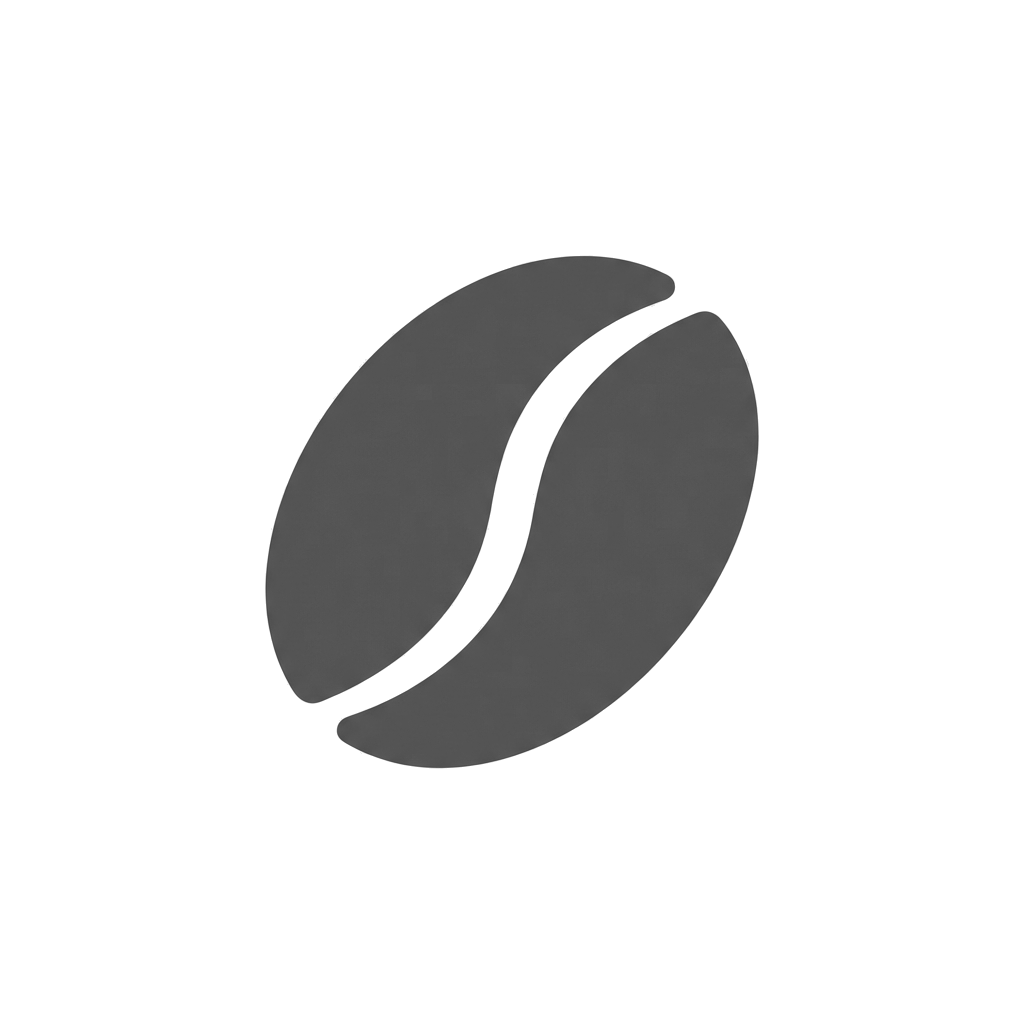
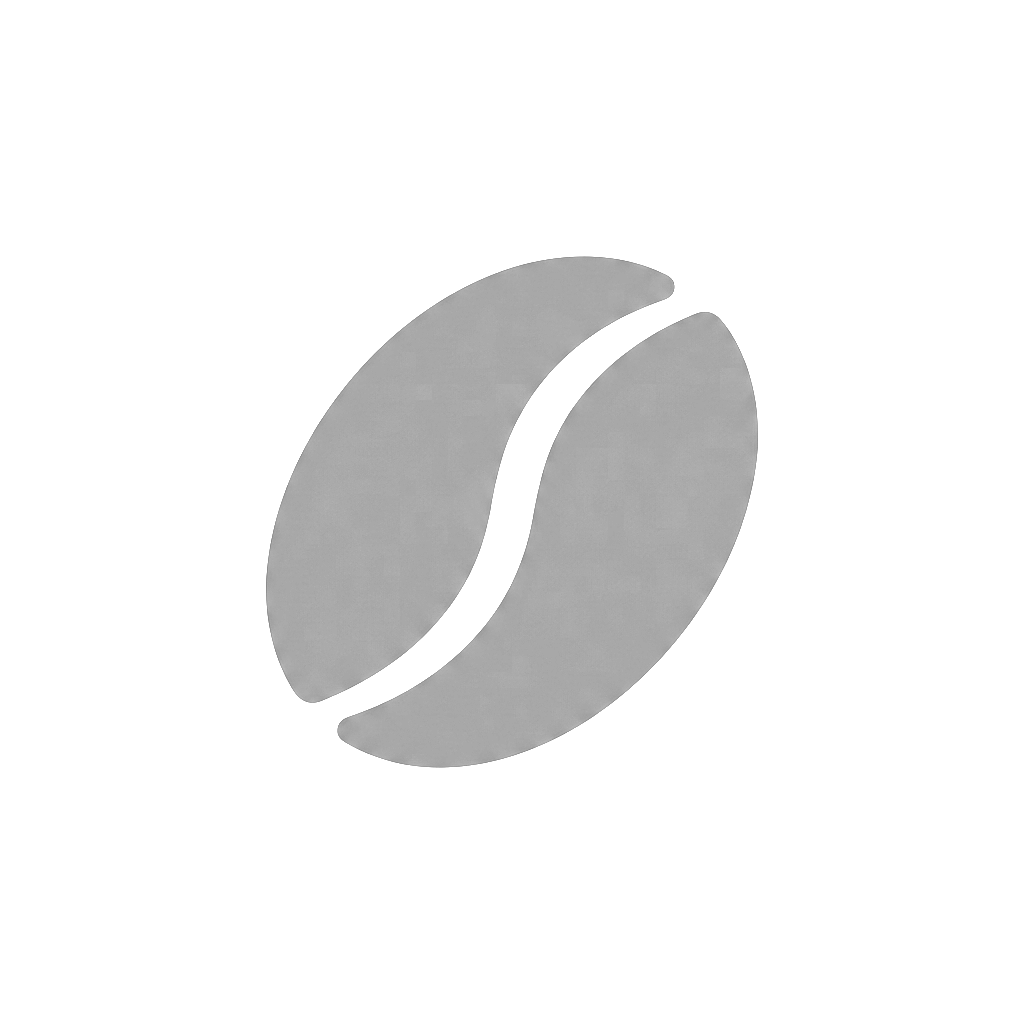
fix: 4 issues from AnAn feedback
1. Lighter gray coffee bean (2x brightness)
2. Filter chips horizontal scroll (no overflow)
3. Rating synced via FavoritesContext (history ↔ favorites)
4. Cafe card in favorites has bean rating next to Google stars
- Removed unused rerollFavorite code
- CafeCard uses context rating instead of local state

Changed region(s): [[0.25, 0.25, 0.75, 0.75]]

diff --git a/app/(tabs)/favorites.tsx b/app/(tabs)/favorites.tsx
@@ -1,6 +1,6 @@
 import React, { useState, useRef, useEffect } from 'react';
 import {
-  View, Text, Image, StyleSheet, TouchableOpacity, Platform, Linking, Animated,
+  View, Text, Image, StyleSheet, TouchableOpacity, Platform, Linking, Animated, ScrollView,
 } from 'react-native';
 import { SafeAreaView } from 'react-native-safe-area-context';
 import { useRouter } from 'expo-router';
@@ -19,7 +19,7 @@ export default function FavoritesScreen() {
   const router = useRouter();
   const { user } = useAuth();
   const { t } = useI18n();
-  const { favorites, removeFavorite, favCount } = useFavorites();
+  const { favorites, removeFavorite, favCount, setRating, getRating } = useFavorites();
   const location = useLocation();
   const isLoggedIn = !!user;
   const isSubscribed = getSubscriptionStatus();
@@ -112,7 +112,7 @@ export default function FavoritesScreen() {
       </View>
 
       {/* Bean rating filter */}
-      <View style={styles.filterRow}>
+      <ScrollView horizontal showsHorizontalScrollIndicator={false} style={styles.filterScroll} contentContainerStyle={styles.filterRow}>
         {FILTER_OPTIONS.map((opt) => (
           <TouchableOpacity
             key={String(opt.value)}
@@ -136,7 +136,7 @@ export default function FavoritesScreen() {
             )}
           </TouchableOpacity>
         ))}
-      </View>
+      </ScrollView>
 
       {/* Forest Map */}
       <View style={styles.mapContainer}>
@@ -229,11 +229,23 @@ export default function FavoritesScreen() {
               )}
               <View style={styles.cafeInfo}>
                 <Text style={styles.cafeName} numberOfLines={1}>{selectedCafe.name}</Text>
-                <View style={styles.cafeRating}>
-                  <Ionicons name="star" size={12} color={Colors.star} />
-                  <Text style={styles.cafeRatingText}>
-                    {selectedCafe.rating > 0 ? selectedCafe.rating.toFixed(1) : '-'}
-                  </Text>
+                <View style={styles.cafeRatingRow}>
+                  <View style={styles.cafeRating}>
+                    <Ionicons name="star" size={12} color={Colors.star} />
+                    <Text style={styles.cafeRatingText}>
+                      {selectedCafe.rating > 0 ? selectedCafe.rating.toFixed(1) : '-'}
+                    </Text>
+                  </View>
+                  <View style={styles.cafeBeanRating}>
+                    {[1, 2, 3, 4].map((level) => (
+                      <TouchableOpacity key={level} onPress={() => setRating(selectedCafe.place_id, getRating(selectedCafe.place_id) === level ? 0 : level)}>
+                        <Image
+                          source={getRating(selectedCafe.place_id) >= level ? beanImg : beanGrayImg}
+                          style={styles.cafeBeanIcon}
+                        />
+                      </TouchableOpacity>
+                    ))}
+                  </View>
                 </View>
               </View>
             </TouchableOpacity>
@@ -270,8 +282,9 @@ const styles = StyleSheet.create({
     paddingHorizontal: Spacing.lg, paddingTop: Spacing.xl + 20, paddingBottom: Spacing.md,
   },
   title: { fontSize: FontSize.xxl, fontWeight: '700', color: Colors.text },
+  filterScroll: { flexGrow: 0, marginBottom: Spacing.sm },
   filterRow: {
-    flexDirection: 'row', paddingHorizontal: Spacing.lg, gap: 6, marginBottom: Spacing.sm,
+    flexDirection: 'row', paddingHorizontal: Spacing.lg, gap: 6,
   },
   filterChip: {
     paddingHorizontal: 10, paddingVertical: 4, borderRadius: 16,
@@ -357,8 +370,17 @@ const styles = StyleSheet.create({
   cafeName: {
     fontSize: FontSize.md, fontWeight: '600', color: Colors.text,
   },
+  cafeRatingRow: {
+    flexDirection: 'row', alignItems: 'center', gap: 8, marginTop: 2,
+  },
   cafeRating: {
-    flexDirection: 'row', alignItems: 'center', gap: 4, marginTop: 2,
+    flexDirection: 'row', alignItems: 'center', gap: 4,
+  },
+  cafeBeanRating: {
+    flexDirection: 'row', alignItems: 'center', gap: 2,
+  },
+  cafeBeanIcon: {
+    width: 14, height: 14, resizeMode: 'contain',
   },
   cafeRatingText: {
     fontSize: FontSize.sm, color: Colors.textSecondary,

diff --git a/src/context/FavoritesContext.tsx b/src/context/FavoritesContext.tsx
@@ -13,6 +13,8 @@ interface FavoritesContextType {
   loading: boolean;
   lastRolled: { emoji: string; rarity: string } | null;
   clearLastRolled: () => void;
+  setRating: (placeId: string, rating: number) => void;
+  getRating: (placeId: string) => number;
 }
 
 const FavoritesContext = createContext<FavoritesContextType>({
@@ -24,12 +26,15 @@ const FavoritesContext = createContext<FavoritesContextType>({
   loading: false,
   lastRolled: null,
   clearLastRolled: () => {},
+  setRating: () => {},
+  getRating: () => 0,
 });
 
 export function FavoritesProvider({ children }: { children: ReactNode }) {
   const { user } = useAuth();
   const [favorites, setFavorites] = useState<Cafe[]>([]);
   const [loading, setLoading] = useState(false);
+  const [ratings, setRatings] = useState<Record<string, number>>({});
 
   // Load favorites from Supabase when user logs in
   useEffect(() => {
@@ -175,37 +180,13 @@ export function FavoritesProvider({ children }: { children: ReactNode }) {
       loading,
       lastRolled,
       clearLastRolled: () => setLastRolled(null),
-      rerollFavorite: async (placeId: string) => {
-        if (!user) return;
-        const newItem = rollGardenItem();
-        setLastRolled({ emoji: newItem.emoji, rarity: newItem.rarity });
-
-        // Optimistic update
-        setFavorites((prev) => prev.map((f) =>
-          f.place_id === placeId
-            ? { ...f, gardenEmoji: newItem.emoji, gardenItemId: newItem.id }
-            : f
+      setRating: (placeId: string, rating: number) => {
+        setRatings(prev => ({ ...prev, [placeId]: rating }));
+        setFavorites(prev => prev.map(f =>
+          f.place_id === placeId ? { ...f, heartRating: rating } : f
         ));
-
-        // Update in DB
-        try {
-          const { data: cafeData } = await supabase
-            .from('cafes')
-            .select('id')
-            .eq('place_id', placeId)
-            .single();
-
-          if (cafeData) {
-            await supabase
-              .from('favorites')
-              .update({ garden_emoji: newItem.emoji, garden_item_id: newItem.id })
-              .eq('user_id', user.id)
-              .eq('cafe_id', cafeData.id);
-          }
-        } catch (err) {
-          console.error('[Favorites] Reroll error:', err);
-        }
       },
+      getRating: (placeId: string) => ratings[placeId] || 0,
     }}>
       {children}
     </FavoritesContext.Provider>

diff --git a/src/components/CafeCard.tsx b/src/components/CafeCard.tsx
@@ -1,4 +1,4 @@
-import React, { useState } from 'react';
+import React from 'react';
 import {
   View,
   Text,
@@ -13,6 +13,7 @@ import { useRouter } from 'expo-router';
 import { Colors, Spacing, FontSize, BorderRadius } from '../constants/theme';
 import { Cafe } from '../types/cafe';
 import { getPhotoUrl } from '../lib/places';
+import { useFavorites } from '../context/FavoritesContext';
 
 interface CafeCardProps {
   cafe: Cafe;
@@ -28,8 +29,9 @@ export default function CafeCard({
   showFavoriteButton = true,
 }: CafeCardProps) {
   const router = useRouter();
+  const { setRating, getRating } = useFavorites();
   const photoUrl = cafe.photo_reference ? getPhotoUrl(cafe.photo_reference) : null;
-  const [heartRating, setHeartRating] = useState(0);
+  const heartRating = getRating(cafe.place_id);
 
   const handleCardPress = () => {
     router.push({
@@ -157,7 +159,7 @@ export default function CafeCard({
             {[1, 2, 3, 4].map((level) => (
               <TouchableOpacity
                 key={level}
-                onPress={() => setHeartRating(heartRating === level ? 0 : level)}
+                onPress={() => setRating(cafe.place_id, heartRating === level ? 0 : level)}
               >
                 <Image
                   source={heartRating >= level
